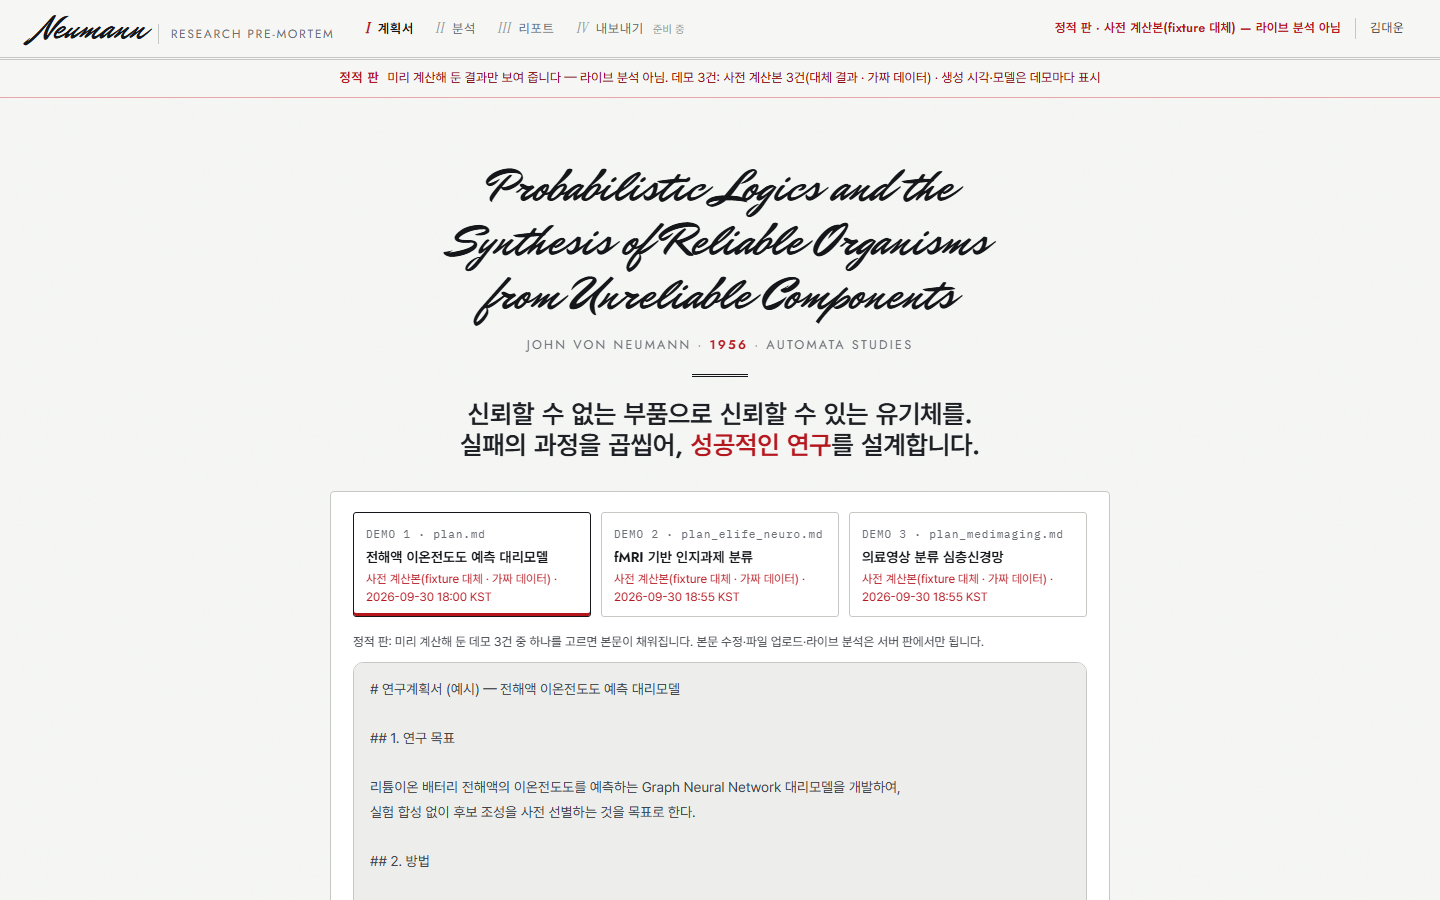
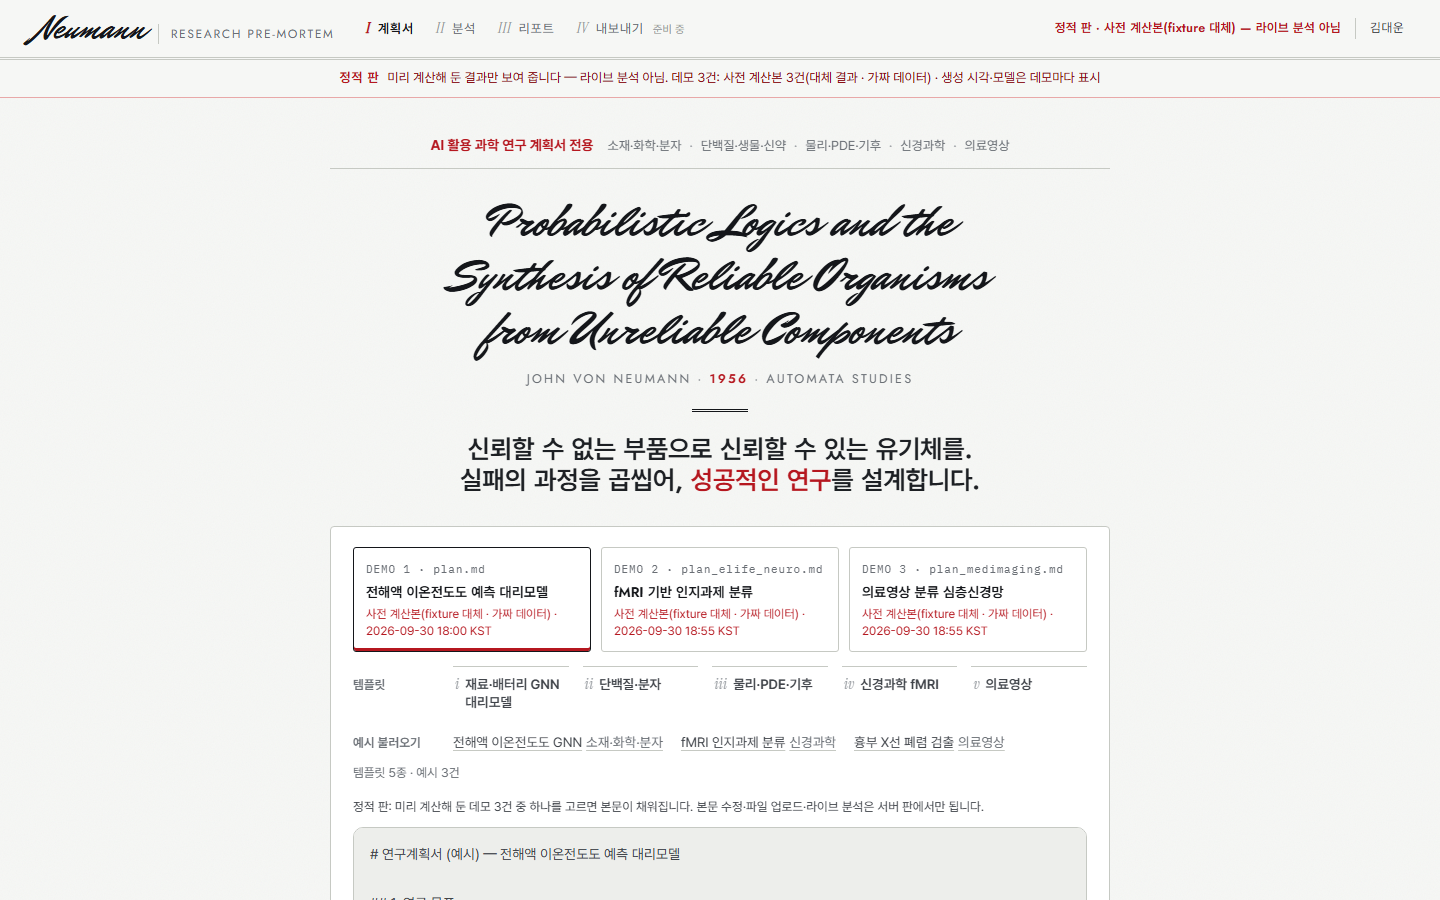
[E6-L3a] 정적 판에서 템플릿 선택기(GET templates, templates/{id}) 처리 — 검증 조건 1 해소
- 빌드: neumann.api.templates 카탈로그 응답을 templates.json·templates/<id>.json(템플릿 5 + 예시 3)으로
- fetch 가로채기: templates → 정적 목록, templates/<id> → 목록에 있는 id만, 없으면 404 JSON(네트워크로 안 나감)
- 입력: 템플릿·예시로 불러온 본문을 덮어쓰지 않고, 데모가 아닌 본문(골격)은 실행을 막고 알림
- 검사: 화면이 templates를 부르면 카탈로그·항목 JSON 필수. shots가 템플릿·예시 선택까지 잰다
- main 00d7cb1 화면 기준 shots 통과: 콘솔 오류 0, 4xx 0, 외부 요청 0. 스크린샷 3장 다시 찍음. 실명 배지 유지

verify 통과(556 passed, 19 skipped · tests/e6/test_static_site.py 29 passed)
builder: claude-opus-5.5

Changed region(s): [[0.25, 0.1556, 0.75, 0.7778], [0.25, 0.8089, 0.6875, 0.9644], [0.25, 0.9956, 0.3125, 1.0]]

diff --git a/scripts/build_static_site.py b/scripts/build_static_site.py
@@ -56,6 +56,10 @@ LIVE_NOTE = "라이브 분석 아님"
 SITE_TITLE_SUFFIX = " (정적 데모 · 사전 계산본)"
 INPUT_NOTE = ("정적 판: 미리 계산해 둔 데모 3건 중 하나를 고르면 본문이 채워집니다. "
               "본문 수정·파일 업로드·라이브 분석은 서버 판에서만 됩니다.")
+NOT_DEMO_NOTE = ("정적 판: 템플릿 골격은 보기만 할 수 있습니다. 분석 결과(사전 계산본)는 데모 3건에만 있어 "
+                 "위 데모나 '예시 불러오기'를 고르면 실행할 수 있습니다.")
+TEMPLATE_ID = re.compile(r"^[a-z0-9]+(-[a-z0-9]+)*$")  # api/templates.py의 id 규칙(파일 이름으로 쓴다)
+TEMPLATES_INDEX = "templates.json"
 
 ViewBuilder = Callable[..., dict[str, Any]]
 Validator = Callable[[dict[str, Any]], list[str]]
@@ -339,7 +343,8 @@ STATIC_CSS = """
   .sdemo .m { display: block; font-size: 12px; color: var(--green); }
   .sdemo .m.fx { color: var(--red); }
   .sdemo.on { border-color: var(--ink); box-shadow: inset 0 -3px 0 var(--red); }
-  .snote { font-size: 12.5px; color: var(--text2); margin: 0 0 10px 0; }
+  .snote { font-size: 12.5px; color: var(--text2); margin: 10px 0; }
+  .snote.warn { color: var(--red-d); }
   textarea.ta[readonly] { background: var(--soft); color: var(--text2); cursor: default; }
   @media (max-width: 860px) { .sdemos { grid-template-columns: 1fr; } .sbanner { padding: 8px 18px; } }
 """
@@ -373,6 +378,15 @@ STATIC_SHIM_JS = r"""
       return realFetch(d.json, { cache: 'no-cache' });
     }
     if (r === 'premortem' || (r && r.indexOf('premortem/') === 0)) return reply(ST.not_found, 404);
+    if (r === 'templates') {
+      if (!ST.templates) return reply({ status: 'error', reason: '정적 판: 템플릿 카탈로그 없음' }, 404);
+      return realFetch(ST.templates.index, { cache: 'no-cache' });
+    }
+    if (r && r.indexOf('templates/') === 0) {
+      var id = ''; try { id = decodeURIComponent(r.slice('templates/'.length)); } catch (e) { id = ''; }
+      if (ST.templates && ST.templates.ids.indexOf(id) >= 0) return realFetch(ST.templates.dir + id + '.json', { cache: 'no-cache' });
+      return reply({ detail: '템플릿 없음: ' + id }, 404);
+    }
     return realFetch(input, init);
   };
 })();
@@ -386,13 +400,25 @@ STATIC_INPUT_JS = r"""
   if (!ST || !ST.demos || !ST.demos.length || !app) return;
   var sel = 0;
   function esc(s) { return String(s == null ? '' : s).replace(/[&<>"']/g, function (c) { return ({ '&': '&amp;', '<': '&lt;', '>': '&gt;', '"': '&quot;', "'": '&#39;' })[c]; }); }
+  function norm(t) { return String(t == null ? '' : t).replace(/\r\n?/g, '\n').trim(); }
+  function matchDemo(text) { for (var i = 0; i < ST.demos.length; i++) { if (norm(ST.demos[i].plan_text) === norm(text)) return i; } return -1; }
+  function sync() {
+    var ta = document.getElementById('ta'); if (!ta) return;
+    var k = matchDemo(ta.value);
+    if (k >= 0) sel = k;
+    Array.prototype.forEach.call(document.querySelectorAll('#demoPicker .sdemo'), function (b) {
+      var on = Number(b.getAttribute('data-demo')) === k; b.classList.toggle('on', on); b.setAttribute('aria-pressed', on ? 'true' : 'false');
+    });
+    var btn = document.getElementById('btnStart'); if (btn) btn.disabled = k < 0;
+    var note = document.getElementById('staticNote');
+    if (note) { note.textContent = k < 0 ? ST.not_demo_note : ST.input_note; note.classList.toggle('warn', k < 0); }
+    document.body.setAttribute('data-static-demo', String(k));
+  }
   function fill() {
     var ta = document.getElementById('ta'); if (!ta) return;
     var d = ST.demos[sel];
     if (ta.value !== d.plan_text) { ta.value = d.plan_text; ta.dispatchEvent(new Event('input', { bubbles: true })); }
-    Array.prototype.forEach.call(document.querySelectorAll('#demoPicker .sdemo'), function (b) {
-      var on = Number(b.getAttribute('data-demo')) === sel; b.classList.toggle('on', on); b.setAttribute('aria-pressed', on ? 'true' : 'false');
-    });
+    sync();
   }
   function decorate() {
     if (document.body.getAttribute('data-view') !== 'input') return;
@@ -410,7 +436,7 @@ STATIC_INPUT_JS = r"""
     var note = document.createElement('p'); note.className = 'snote'; note.id = 'staticNote'; note.textContent = ST.input_note;
     ta.parentNode.insertBefore(note, ta);
     picker.addEventListener('click', function (ev) { var b = ev.target.closest('[data-demo]'); if (!b) return; sel = Number(b.getAttribute('data-demo')); fill(); });
-    fill();
+    if (norm(ta.value)) sync(); else fill();  /* 템플릿·예시로 불러온 본문은 덮어쓰지 않는다 */
   }
   new MutationObserver(decorate).observe(app, { childList: true });
   decorate();
@@ -480,6 +506,26 @@ def _git_commit() -> str:
     return out.stdout.strip() if out.returncode == 0 else ""
 
 
+def _default_templates() -> dict[str, Any] | None:
+    """E4-L1b 템플릿 카탈로그(GET /templates, /templates/{id} 응답)를 정적 JSON으로. 모듈이 없으면 None."""
+    try:
+        from neumann.api.templates import get_template, list_templates
+    except ImportError:
+        return None
+    index = list_templates()  # 카탈로그 검사 실패면 CatalogError로 빌드를 멈춘다
+    ids = [t["id"] for t in index.get("templates", [])] + [e["id"] for e in index.get("examples", [])]
+    items = {}
+    for item_id in ids:
+        item = get_template(item_id)
+        if item is None:
+            raise ValueError(f"템플릿 카탈로그의 {item_id}를 읽지 못함")
+        items[item_id] = item
+    return {"index": index, "items": items}
+
+
+PAGE_CALLS_TEMPLATES = re.compile(r"""fetch\(\s*['"]templates\b""")
+
+
 def build_site(
     out_dir: Path,
     *,
@@ -490,6 +536,7 @@ def build_site(
     fixture_path: Path = FIXTURE_RESULT,
     build_view: ViewBuilder | None = None,
     validate: Validator | None = None,
+    templates_source: Callable[[], dict[str, Any] | None] = _default_templates,
     force: bool = False,
 ) -> dict[str, Any]:
     """정적 사이트를 out_dir에 만든다(임시 폴더에서 만든 뒤 바꿔 끼운다). 빌드 요약을 돌려준다."""
@@ -504,6 +551,9 @@ def build_site(
 
     built_at = datetime.now(UTC).isoformat(timespec="seconds")
     src_bytes = src_index.read_bytes()
+    templates = templates_source()
+    if templates is None and PAGE_CALLS_TEMPLATES.search(src_bytes.decode("utf-8")):
+        raise RuntimeError("화면이 GET templates를 부르는데 템플릿 카탈로그(neumann.api.templates)를 읽지 못했다")
     demos = [resolve_demo(d, precomputed_dir, fixture_path) for d in load_demos(plans_dir, demo_names)]
 
     out_dir.parent.mkdir(parents=True, exist_ok=True)
@@ -525,10 +575,21 @@ def build_site(
                 "label": demo_label(d), "badge": demo_badge(d), "reason": d.reason,
                 "cards": len(view.get("cards", [])), "works": len(view.get("works", [])),
             })
+        tpl_info = None
+        if templates is not None:
+            ids = list(templates["items"])
+            bad = [i for i in ids if not TEMPLATE_ID.match(i)]
+            if bad:
+                raise ValueError(f"템플릿 id가 파일 이름 규칙에 맞지 않는다: {bad}")
+            (tmp / "templates").mkdir(exist_ok=True)
+            (tmp / TEMPLATES_INDEX).write_text(json.dumps(templates["index"], ensure_ascii=False), encoding="utf-8")
+            for item_id, item in templates["items"].items():
+                (tmp / "templates" / f"{item_id}.json").write_text(json.dumps(item, ensure_ascii=False), encoding="utf-8")
+            tpl_info = {"index": TEMPLATES_INDEX, "dir": "templates/", "ids": ids}
         label = site_label(demos)
         static = {
             "version": 1, "built_at": built_at, "live": False, "label": label, "input_note": INPUT_NOTE,
-            "demos": entries,
+            "not_demo_note": NOT_DEMO_NOTE, "demos": entries, "templates": tpl_info,
             "health": {
                 "status": "ok",
                 "version": f"{_neumann_version()} · 정적 판",
@@ -549,6 +610,7 @@ def build_site(
         summary = {
             "built_at": built_at, "neumann_version": _neumann_version(), "git_commit": _git_commit(),
             "webui_index_sha256": _sha256_bytes(src_bytes), "label": label,
+            "templates": len(tpl_info["ids"]) if tpl_info else 0,
             "demos": [{k: e[k] for k in ("id", "file", "kind", "substitute", "origin", "generated_at", "model", "sha256", "cards",
                                           "works", "reason")} for e in entries],
         }
@@ -696,6 +758,28 @@ def check_site(site: Path, *, expect_demos: int = len(DEMO_PLANS)) -> tuple[list
         if not isinstance(view.get("plan"), dict) or not isinstance(view.get("cards"), list):
             problems.append(f"[필수] {rel}: 화면 데이터(plan·cards) 없음")
 
+    tpl_index = site / TEMPLATES_INDEX
+    if PAGE_CALLS_TEMPLATES.search(page) and not tpl_index.is_file():
+        problems.append(f"[필수] 화면이 templates를 부르는데 {TEMPLATES_INDEX} 없음")
+    stats["templates"] = 0
+    if tpl_index.is_file():
+        try:
+            cat = json.loads(tpl_index.read_text(encoding="utf-8"))
+            tpl_ids = [t["id"] for t in cat.get("templates", [])] + [e["id"] for e in cat.get("examples", [])]
+        except (OSError, ValueError, KeyError, TypeError, AttributeError):
+            tpl_ids = []
+            problems.append(f"[필수] {TEMPLATES_INDEX}를 읽지 못함")
+        stats["templates"] = len(tpl_ids)
+        for item_id in tpl_ids:
+            item_path = site / "templates" / f"{item_id}.json"
+            try:
+                item = json.loads(item_path.read_text(encoding="utf-8"))
+            except (OSError, ValueError):
+                problems.append(f"[필수] templates/{item_id}.json 없음 또는 파싱 실패")
+                continue
+            if not isinstance(item, dict) or not isinstance(item.get("text"), str) or item.get("id") != item_id:
+                problems.append(f"[필수] templates/{item_id}.json: id·text 없음")
+
     # 2) 비밀값·환경변수·로컬 경로 (텍스트 파일 전부)
     verify = _load_verify()
     secrets = verify.load_real_secrets()
@@ -788,7 +872,7 @@ def main(argv: list[str] | None = None) -> int:
                   f"카드 {d['cards']} · 유사 연구 {d['works']}{extra}")
         problems, stats = check_site(out)
     print(f"검사: 파일 {stats['files']}개({stats['bytes'] / 1024 / 1024:.1f}MB) · 텍스트 {stats['text_files']}개 · "
-          f"리소스 참조 {stats['resource_refs']}개 · 데모 {stats['demos']}건")
+          f"리소스 참조 {stats['resource_refs']}개 · 데모 {stats['demos']}건 · 템플릿·예시 {stats.get('templates', 0)}건")
     if problems:
         print(f"검사 실패 {len(problems)}건:")
         for p in problems:

diff --git a/scripts/build_static_site_shots.py b/scripts/build_static_site_shots.py
@@ -6,6 +6,8 @@
   ``http://127.0.0.1:<port>/project_neumann/``을 연다(상대 경로가 깨지면 여기서 드러난다).
 - 1440×900, 렌더 완료 DOM 조건을 기다린 뒤 찍는다: 입력(데모 선택) → 데모 1 리포트 → 위험카드·근거 패널.
 - 데모 3건을 모두 돌려 리포트에 "라이브 분석 아님" 표시가 나오는지, 데모 밖 입력이 거절되는지 잰다.
+- 화면이 템플릿 선택기(GET templates, E4-L1b)를 쓰면: 목록이 정적 JSON으로 뜨는지, 골격을 고르면 본문이 바뀌고
+  실행이 막히는지(분석 결과는 데모뿐), 예시를 고르면 데모와 맞아 실행이 열리는지 잰다.
 - 콘솔 오류·페이지 오류·실패 요청(4xx/5xx 포함)·외부 도메인 요청을 기록한다. 하나라도 있으면 exit 1.
 - 서버는 끝나면(실패해도) 종료하고 포트가 비었는지 확인한다. 8010(PM 점검 서버)·8000은 쓰지 않는다.
 """
@@ -83,7 +85,8 @@ def stop_server(proc: subprocess.Popen, port: int) -> bool:
 
 
 WAIT_INPUT = ("document.body.dataset.view === 'input' && document.body.dataset.ready === '1' && "
-              "!!document.getElementById('demoPicker') && document.getElementById('hdrState').textContent !== '서버 확인 중'")
+              "!!document.getElementById('demoPicker') && document.getElementById('hdrState').textContent !== '서버 확인 중' && "
+              "(!document.getElementById('tplArea') || !!document.getElementById('tplList') || !!document.getElementById('tplErr'))")
 WAIT_REPORT = ("document.body.dataset.view === 'report' && document.body.dataset.ready === '1' && "
                "!!document.getElementById('statusNotice') && "
                "!!(document.querySelector('#s-cards .rc') || document.querySelector('#noCards'))")
@@ -123,9 +126,34 @@ def shoot(base: str, out: Path, prefix: str) -> dict:
               file_upload_visible: !!document.querySelector('#app [data-mode="file"]'),
               start_enabled: !document.getElementById('btnStart').disabled,
               title: document.title,
+              template_selector: !!document.getElementById('tplArea'),
+              templates: document.querySelectorAll('#tplList [data-tpl]').length,
+              examples: document.querySelectorAll('#exList [data-ex]').length,
+              template_error: (document.getElementById('tplErr') || {}).textContent || '',
             };
         }""")
         page.screenshot(path=str(out / f"{prefix}_input.png"))
+
+        # 1-2 템플릿 선택기(있으면): 골격 → 실행 막힘, 예시 → 데모와 맞아 실행 열림, 데모 1로 되돌림
+        if res["input"]["templates"]:
+            state = """() => ({text: document.getElementById('ta').value.split('\\n')[0],
+                              start_enabled: !document.getElementById('btnStart').disabled,
+                              demo: document.body.getAttribute('data-static-demo'),
+                              note_warn: document.getElementById('staticNote').classList.contains('warn'),
+                              tpl_on: (document.querySelector('#tplList .tp.on') || {}).dataset?.tpl || '',
+                              ex_on: (document.querySelector('#exList .exl.on') || {}).dataset?.ex || ''})"""
+            tpl_id = page.get_attribute("#tplList [data-tpl]", "data-tpl")
+            page.click(f'#tplList [data-tpl="{tpl_id}"]')
+            page.wait_for_function(f"(document.querySelector('#tplList .tp.on') || {{}}).dataset?.tpl === '{tpl_id}' "
+                                   "&& document.body.getAttribute('data-static-demo') === '-1'")
+            res["template_pick"] = {"id": tpl_id, **page.evaluate(state)}
+            ex_id = page.get_attribute("#exList [data-ex]", "data-ex")
+            page.click(f'#exList [data-ex="{ex_id}"]')
+            page.wait_for_function(f"(document.querySelector('#exList .exl.on') || {{}}).dataset?.ex === '{ex_id}' "
+                                   "&& document.body.getAttribute('data-static-demo') !== '-1'")
+            res["example_pick"] = {"id": ex_id, **page.evaluate(state)}
+            page.click('#demoPicker .sdemo[data-demo="0"]')
+            page.wait_for_function("document.body.getAttribute('data-static-demo') === '0'")
 
         # 2 데모 3건 → 리포트
         n = len(res["input"]["demos"])
@@ -216,11 +244,19 @@ def main() -> int:
         shutil.rmtree(stage, ignore_errors=True)
         result.update({"server": f"python -m http.server (127.0.0.1, 하위 경로 /{SUBPATH}/)",
                        "server_stopped": proc is None or proc.poll() is not None, "port_free_after": stopped})
-    print(json.dumps(result, ensure_ascii=False, indent=1))
     bad = (result.get("console_errors") or result.get("page_errors") or result.get("failed_requests")
            or result.get("bad_status") or result.get("external_requests"))
     reports = result.get("reports", [])
-    ok = (not bad and len(reports) == 3 and all(r["live_note_shown"] for r in reports)
+    inp = result.get("input", {})
+    tpl_ok = True
+    if inp.get("template_selector"):
+        tp, ex = result.get("template_pick", {}), result.get("example_pick", {})
+        tpl_ok = (inp.get("templates", 0) > 0 and not inp.get("template_error")
+                  and tp.get("start_enabled") is False and tp.get("note_warn") is True
+                  and ex.get("start_enabled") is True and ex.get("demo") not in (None, "-1"))
+    result["templates_ok"] = tpl_ok
+    print(json.dumps(result, ensure_ascii=False, indent=1))
+    ok = (not bad and tpl_ok and len(reports) == 3 and all(r["live_note_shown"] for r in reports)
           and result.get("input", {}).get("textarea_readonly") and result.get("non_demo", {}).get("status") == 404)
     print("shots:", "통과" if ok else "실패")
     return 0 if ok else 1

diff --git a/tests/e6/test_static_site.py b/tests/e6/test_static_site.py
@@ -151,6 +151,57 @@ def test_static_injection_is_relative_and_complete(tmp_path: Path, webui: Path) 
     assert not re.search(r"""(?:src|href)\s*=\s*["'](?:https?:)?//""", page)
 
 
+FAKE_TEMPLATES = {
+    "index": {"version": 1, "scope": {"label": "t", "domains": ["d"]}, "required_sections": [],
+              "templates": [{"id": "tpl-a", "kind": "template", "name": "A"}],
+              "examples": [{"id": "ex-plan", "kind": "example", "name": "P", "filename": "plan.md"}]},
+    "items": {"tpl-a": {"id": "tpl-a", "kind": "template", "text": "# 골격\n## 1. 연구 목표\n"},
+              "ex-plan": {"id": "ex-plan", "kind": "example", "text": (PLANS / "plan.md").read_text(encoding="utf-8")}},
+}
+
+
+def test_templates_are_served_as_static_json(tmp_path: Path, webui: Path) -> None:
+    """E4-L1b 템플릿 선택기(GET templates, templates/{id})를 정적 JSON으로 돌려준다."""
+    (webui / "index.html").write_text(FAKE_INDEX.replace("fetch('health')", "fetch('templates')"), encoding="utf-8")
+    site, summary = build(tmp_path, webui, templates_source=lambda: FAKE_TEMPLATES)
+    assert summary["templates"] == 2
+    assert json.loads((site / "templates.json").read_text(encoding="utf-8")) == FAKE_TEMPLATES["index"]
+    for item_id, item in FAKE_TEMPLATES["items"].items():
+        assert json.loads((site / "templates" / f"{item_id}.json").read_text(encoding="utf-8")) == item
+    blob = static_blob(site)
+    assert blob["templates"] == {"index": "templates.json", "dir": "templates/", "ids": ["tpl-a", "ex-plan"]}
+    page = (site / "index.html").read_text(encoding="utf-8")
+    assert "r === 'templates'" in page and "ST.templates.dir + id + '.json'" in page
+    assert blob["not_demo_note"].startswith("정적 판")
+    problems, stats = bss.check_site(site)
+    assert problems == [] and stats["templates"] == 2
+
+    (site / "templates" / "tpl-a.json").unlink()
+    assert any(p.startswith("[필수] templates/tpl-a.json") for p in bss.check_site(site)[0])
+
+
+def test_page_calling_templates_needs_catalog(tmp_path: Path, webui: Path) -> None:
+    (webui / "index.html").write_text(FAKE_INDEX.replace("fetch('health')", "fetch('templates')"), encoding="utf-8")
+    with pytest.raises(RuntimeError, match="templates"):
+        build(tmp_path, webui, templates_source=lambda: None)
+    bad = {"index": FAKE_TEMPLATES["index"], "items": {"../x": {"id": "../x", "text": ""}}}
+    with pytest.raises(ValueError, match="id"):
+        build(tmp_path, webui, templates_source=lambda: bad)
+    assert not (tmp_path / "data" / "site").exists()
+
+
+def test_real_template_catalog_matches_api() -> None:
+    try:
+        from neumann.api.templates import get_template, list_templates
+    except ImportError:
+        pytest.skip("neumann.api.templates 없음(E4-L1b 병합 전)")
+    got = bss._default_templates()
+    assert got is not None and got["index"] == list_templates()
+    ids = [t["id"] for t in got["index"]["templates"]] + [e["id"] for e in got["index"]["examples"]]
+    assert list(got["items"]) == ids and all(got["items"][i] == get_template(i) for i in ids)
+    assert all(bss.TEMPLATE_ID.match(i) for i in ids)
+
+
 def test_script_json_cannot_close_script_tag() -> None:
     s = bss._script_json({"t": "</script><script>alert(1)</script> <!-- &  "})
     assert "</" not in s and "<!--" not in s and " " not in s
@@ -339,3 +390,5 @@ def test_real_webui_build_passes_contract_and_checks(tmp_path: Path) -> None:
     problems, stats = bss.check_site(out)
     assert problems == [], problems
     assert stats["demos"] == 3
+    if bss.PAGE_CALLS_TEMPLATES.search(src):  # E4-L1b 템플릿 선택기
+        assert summary["templates"] > 0 and stats["templates"] == summary["templates"]

diff --git a/docs/reports/E6-L3a.md b/docs/reports/E6-L3a.md
@@ -100,6 +100,37 @@ verify 통과
 
 (main `82146f9`까지 병합한 뒤. `data/site/`는 저장소 밖 공유 폴더라 커밋 대상이 아니다)
 
+## 검증 뒤 보완 (PM 지시: main의 E4-L1b 템플릿 선택기 호환)
+
+검증(PASS-조건부) 1번: main 화면이 입력 화면에서 `GET templates`·`GET templates/{id}`를 불러 정적 판에서 404 ×3, 콘솔 오류가 났다. `git merge main`(`00d7cb1`) 뒤 고쳤다.
+
+- 빌드: `neumann.api.templates.list_templates()`·`get_template(id)` 응답을 그대로 `templates.json`, `templates/<id>.json`(템플릿 5 + 예시 3)으로 넣는다. 카탈로그 검사 실패면 빌드 중단, id는 API의 id 규칙(`^[a-z0-9]+(-[a-z0-9]+)*$`)일 때만 파일 이름으로 쓴다. 화면이 `templates`를 부르는데 카탈로그를 못 읽으면 빌드 실패
+- 가로채기: `templates` → `templates.json`, `templates/<id>` → 목록에 있는 id만 `templates/<id>.json`, 없으면 404 JSON(네트워크로 안 나감)
+- 입력 덧붙이기: 템플릿·예시로 불러온 본문은 덮어쓰지 않는다. 본문이 데모 3건 중 하나와 같으면 그 데모 칸을 켜고 실행을 연다. 템플릿 골격처럼 데모가 아니면 실행 단추를 막고 "정적 판: 템플릿 골격은 보기만 … 분석 결과는 데모 3건에만"을 붉게 적는다
+- 검사: 화면이 `templates`를 부르면 `templates.json` 필수, 목록의 id마다 `templates/<id>.json`(id·text) 필수
+- 대표 실명 배지는 대표 결정대로 그대로 둔다
+
+측정(main `00d7cb1` 화면 기준):
+
+```
+$ python -m pytest tests/e6/test_static_site.py -q
+29 passed
+$ python scripts/build_static_site.py --data-dir C:/Users/User/Desktop/project_neumann/data
+검사: 파일 35개(6.1MB) · 텍스트 21개 · 리소스 참조 22개 · 데모 3건 · 템플릿·예시 8건
+검사 통과: 필수 파일·데모 JSON, 비밀값 0, 환경변수 이름 0, 로컬 경로 0, 외부·루트 절대 참조 0
+$ python scripts/build_static_site_shots.py --site C:/Users/User/Desktop/project_neumann/data/site
+"input": {..., "template_selector": true, "templates": 5, "examples": 3, "template_error": ""}
+"template_pick": {"id": "materials-gnn", "start_enabled": false, "demo": "-1", "note_warn": true}
+"example_pick": {"id": "example-battery", "start_enabled": true, "demo": "0", "note_warn": false}
+"reports": 데모 3건 모두 리포트, live_note_shown true
+"console_errors": [], "page_errors": [], "failed_requests": [], "bad_status": [], "external_requests": [],
+"requests": 18 (templates.json, templates/materials-gnn.json, templates/example-battery.json 포함, 전부 /project_neumann/ 아래)
+"server_stopped": true, "port_free_after": true, "templates_ok": true
+shots: 통과  (exit 0)
+```
+
+새 테스트 3건: 템플릿 정적 JSON·가로채기·검사(빠진 템플릿 JSON을 잡음), 카탈로그 없이 templates를 부르는 화면·잘못된 id는 빌드 실패, 실제 카탈로그 = API 응답. 스크린샷 3장은 새 화면(범위 안내·템플릿 선택기 포함)으로 다시 찍었다.
+
 ## 빌드 명령
 
 ```bash
